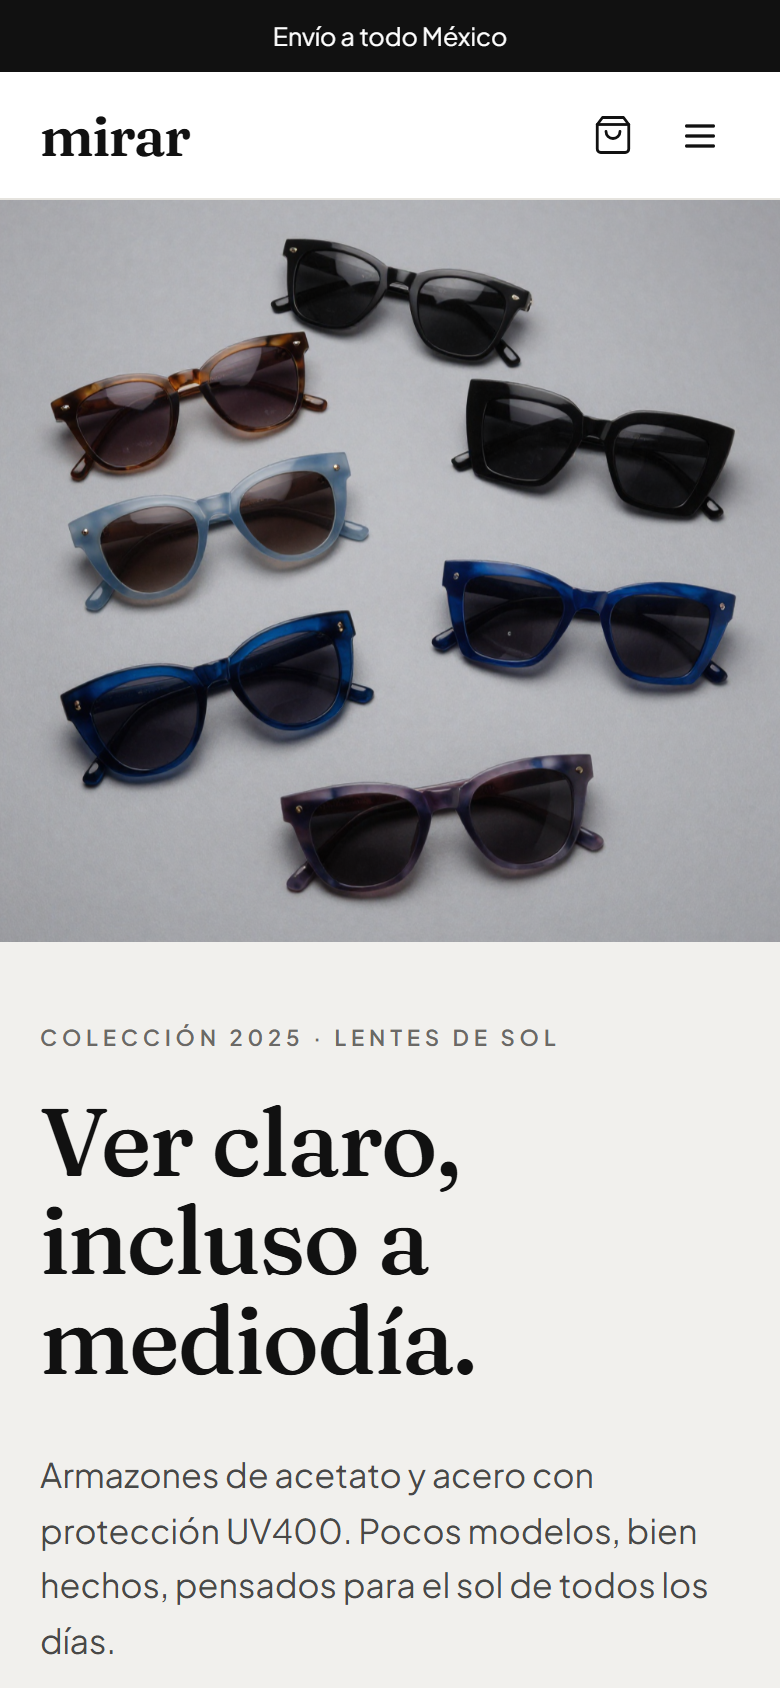
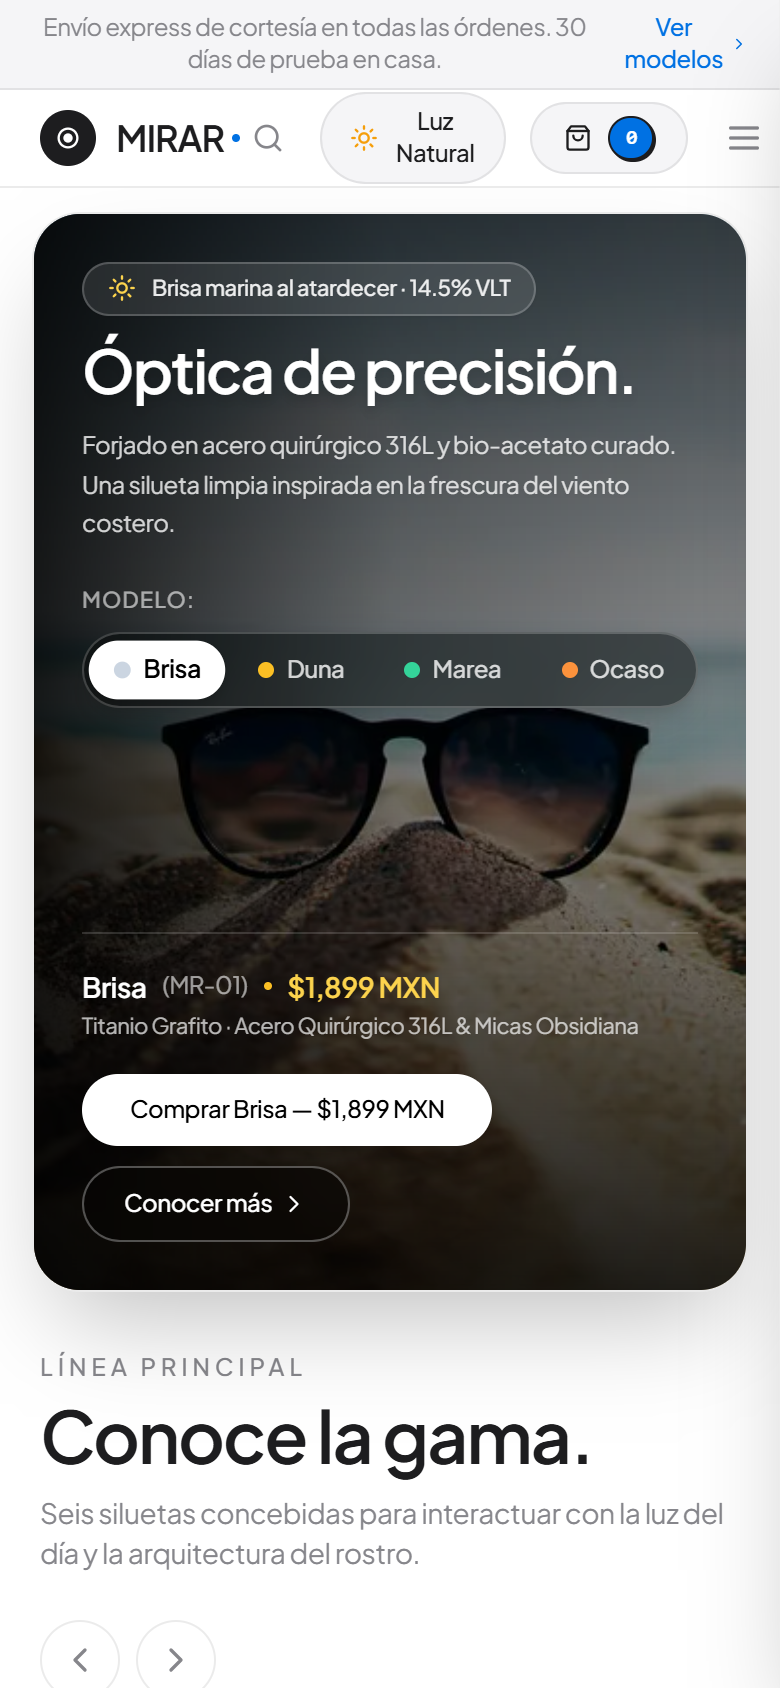
feat(mirar): caso actualizado a la versión nueva de la tienda
- Describe el hero por modelo, LightLab (simulador de micas), guía de
  calce, búsqueda predictiva y vistos recientes
- Capturas nuevas desde mirar-lentes.vercel.app

diff --git a/src/data/projects.js b/src/data/projects.js
@@ -387,72 +387,73 @@ export const projects = [
     slug: "mirar",
     nombre: "MIRAR",
     categoria: "web",
-    tagline: "Tienda en línea de lentes de sol con catálogo, fichas de producto y carrito.",
+    tagline: "Tienda de lentes de sol con simulador de micas y guía de calce.",
     descripcion:
-      "E-commerce de lentes de sol para México: landing editorial, catálogo " +
-      "con filtros, página por modelo y carrito persistente, hecho en Next.js.",
+      "E-commerce de lentes de sol para México: hero interactivo por modelo, " +
+      "simulador de tintes de mica, guía de calce por rostro, catálogo con " +
+      "búsqueda predictiva y carrito persistente, hecho en Next.js.",
     reto:
-      "Una marca de lentes necesitaba una tienda que se sintiera premium sin " +
-      "ser pesada: que se vea bien en móvil, cargue rápido y deje comparar " +
-      "modelos por forma, mica y material.",
+      "Comprar lentes de sol en línea genera dudas que en tienda se resuelven " +
+      "probándolos: cómo se ve la luz con cada mica, si el armazón le queda a " +
+      "tu rostro y cuál modelo elegir entre varios parecidos.",
     solucion:
-      "Storefront en Next.js 14 (App Router) con páginas prerenderizadas, " +
-      "catálogo filtrable, fichas de producto con especificaciones y un " +
-      "carrito con Zustand que se guarda entre visitas. Diseño editorial " +
-      "con animaciones (Framer Motion).",
+      "Storefront en Next.js 14 con un hero que cambia de escena por modelo, " +
+      "un simulador que aplica el tinte de cada mica sobre una escena al " +
+      "atardecer, una guía de calibre según el ancho del rostro y un catálogo " +
+      "con búsqueda predictiva navegable con teclado.",
     resultado:
-      "Tienda publicada en Vercel con el recorrido completo: explorar, " +
-      "ver el modelo y agregarlo al carrito. Sin base de datos: catálogo " +
-      "en código y carrito guardado en el navegador.",
+      "Una tienda publicada en Vercel donde el cliente explora, compara micas " +
+      "y calce, y agrega al carrito sin salir del flujo; con modo claro y " +
+      "oscuro e historial de modelos vistos.",
     resultadoTag: "Publicada en Vercel",
     metricas: [
-      { valor: 6, etiqueta: "Modelos en catálogo" },
-      { valor: "SSG", etiqueta: "Páginas prerenderizadas" },
+      { valor: 8, etiqueta: "Modelos en catálogo" },
+      { valor: 4, etiqueta: "Escenas en el hero" },
     ],
 
     // Puntos de interés arquitectónicos para el Modo Inspección 360°
     hotspots: [
       {
-        id: "lu-catalogo",
-        titulo: "Catálogo con Filtros",
+        id: "mi-hero",
+        titulo: "Hero Interactivo por Modelo",
         categoria: "Experiencia de Compra",
         icono: "🕶",
         pos: [0.72, 0.56, 0.4],
-        descripcion: "Filtra por segmento, forma, color de mica, material y precio máximo, con búsqueda por nombre y segmento sincronizado con la URL.",
-        impacto: "Encuentra el modelo en segundos"
+        descripcion: "Selector de Brisa, Duna, Marea y Ocaso: cada uno cambia escena, especificaciones y precio con transiciones de Framer Motion, y se compra desde ahí.",
+        impacto: "Del vistazo a la compra en un clic"
       },
       {
-        id: "lu-carrito",
-        titulo: "Carrito Persistente",
-        categoria: "Estado del Cliente",
-        icono: "🛒",
+        id: "mi-lightlab",
+        titulo: "LightLab: Simulador de Micas",
+        categoria: "Interactividad",
+        icono: "🌅",
         pos: [-0.78, 0.38, 0.5],
-        descripcion: "Store de Zustand con persistencia local y panel lateral: agregar, cambiar cantidades y quitar sin recargar la página.",
-        impacto: "El carrito sobrevive a la visita"
+        descripcion: "Aplica el tinte, el porcentaje de luz visible (VLT) y la polarización de cada mica sobre una escena al atardecer para comparar cómo se ve.",
+        impacto: "Probar la mica sin tenerla"
       },
       {
-        id: "lu-ssg",
-        titulo: "Páginas Prerenderizadas + SEO",
-        categoria: "Rendimiento",
-        icono: "⚡",
+        id: "mi-busqueda",
+        titulo: "Búsqueda Predictiva",
+        categoria: "Catálogo",
+        icono: "🔎",
         pos: [0.22, -0.8, 0.56],
-        descripcion: "Cada modelo se genera estáticamente con su propio título y descripción; incluye sitemap.xml y robots.txt.",
-        impacto: "Carga inmediata desde el CDN"
+        descripcion: "Sugerencias de modelos y filtros mientras escribes, navegables con flechas y Enter, sobre un catálogo filtrable por forma y mica.",
+        impacto: "Encuentra el modelo al teclear"
       },
       {
-        id: "lu-diseno",
-        titulo: "Diseño Editorial Animado",
-        categoria: "Marca",
-        icono: "✨",
+        id: "mi-calce",
+        titulo: "Guía de Calce y Vistos Recientes",
+        categoria: "Personalización",
+        icono: "📏",
         pos: [-0.4, -0.48, -0.78],
-        descripcion: "Tipografía serif (Fraunces) con Plus Jakarta Sans, títulos que se revelan línea por línea, parallax y transiciones con Framer Motion; respeta el modo de movimiento reducido.",
-        impacto: "Se siente premium en cualquier pantalla"
+        descripcion: "Recomienda calibre según el ancho del rostro y recuerda los modelos que viste (localStorage) para retomarlos después.",
+        impacto: "Menos dudas antes de comprar"
       }
     ],
 
     eficiencia: null,
 
-    stack: ["Next.js", "TypeScript", "Tailwind", "Zustand", "Vercel"],
+    stack: ["Next.js", "TypeScript", "Tailwind", "Framer Motion", "Zustand"],
     links: {
       sitio: "https://mirar-lentes.vercel.app",
       codigo: "https://github.com/EAA933/mirar",

diff --git a/index.html b/index.html
@@ -161,19 +161,19 @@
 
       <article id="mirar">
         <h2>MIRAR</h2>
-        <p class="tagline">Tienda en línea de lentes de sol con catálogo, fichas de producto y carrito.</p>
+        <p class="tagline">Tienda de lentes de sol con simulador de micas y guía de calce.</p>
 
         <h3>Reto</h3>
-        <p>Una marca de lentes necesitaba una tienda que se sintiera premium sin ser pesada: que se vea bien en móvil, cargue rápido y deje comparar modelos por forma, mica y material.</p>
+        <p>Comprar lentes de sol en línea genera dudas que en tienda se resuelven probándolos: cómo se ve la luz con cada mica, si el armazón le queda a tu rostro y cuál modelo elegir entre varios parecidos.</p>
 
         <h3>Solución</h3>
-        <p>Storefront en Next.js 14 (App Router) con páginas prerenderizadas, catálogo filtrable, fichas de producto con especificaciones y un carrito con Zustand que se guarda entre visitas. Diseño editorial con animaciones (Framer Motion).</p>
+        <p>Storefront en Next.js 14 con un hero que cambia de escena por modelo, un simulador que aplica el tinte de cada mica sobre una escena al atardecer, una guía de calibre según el ancho del rostro y un catálogo con búsqueda predictiva navegable con teclado.</p>
 
         <h3>Resultado</h3>
-        <p>Tienda publicada en Vercel con el recorrido completo: explorar, ver el modelo y agregarlo al carrito. Sin base de datos: catálogo en código y carrito guardado en el navegador.</p>
+        <p>Una tienda publicada en Vercel donde el cliente explora, compara micas y calce, y agrega al carrito sin salir del flujo; con modo claro y oscuro e historial de modelos vistos.</p>
 
         <div class="stack" aria-label="Tecnologías">
-          <span>Next.js</span><span>TypeScript</span><span>Tailwind</span><span>Zustand</span><span>Vercel</span>
+          <span>Next.js</span><span>TypeScript</span><span>Tailwind</span><span>Framer Motion</span><span>Zustand</span>
         </div>
         <p style="margin-top:20px"><a href="https://mirar-lentes.vercel.app" target="_blank" rel="noopener">Ver sitio →</a> · <a href="https://github.com/EAA933/mirar" target="_blank" rel="noopener">Código →</a></p>
       </article>
